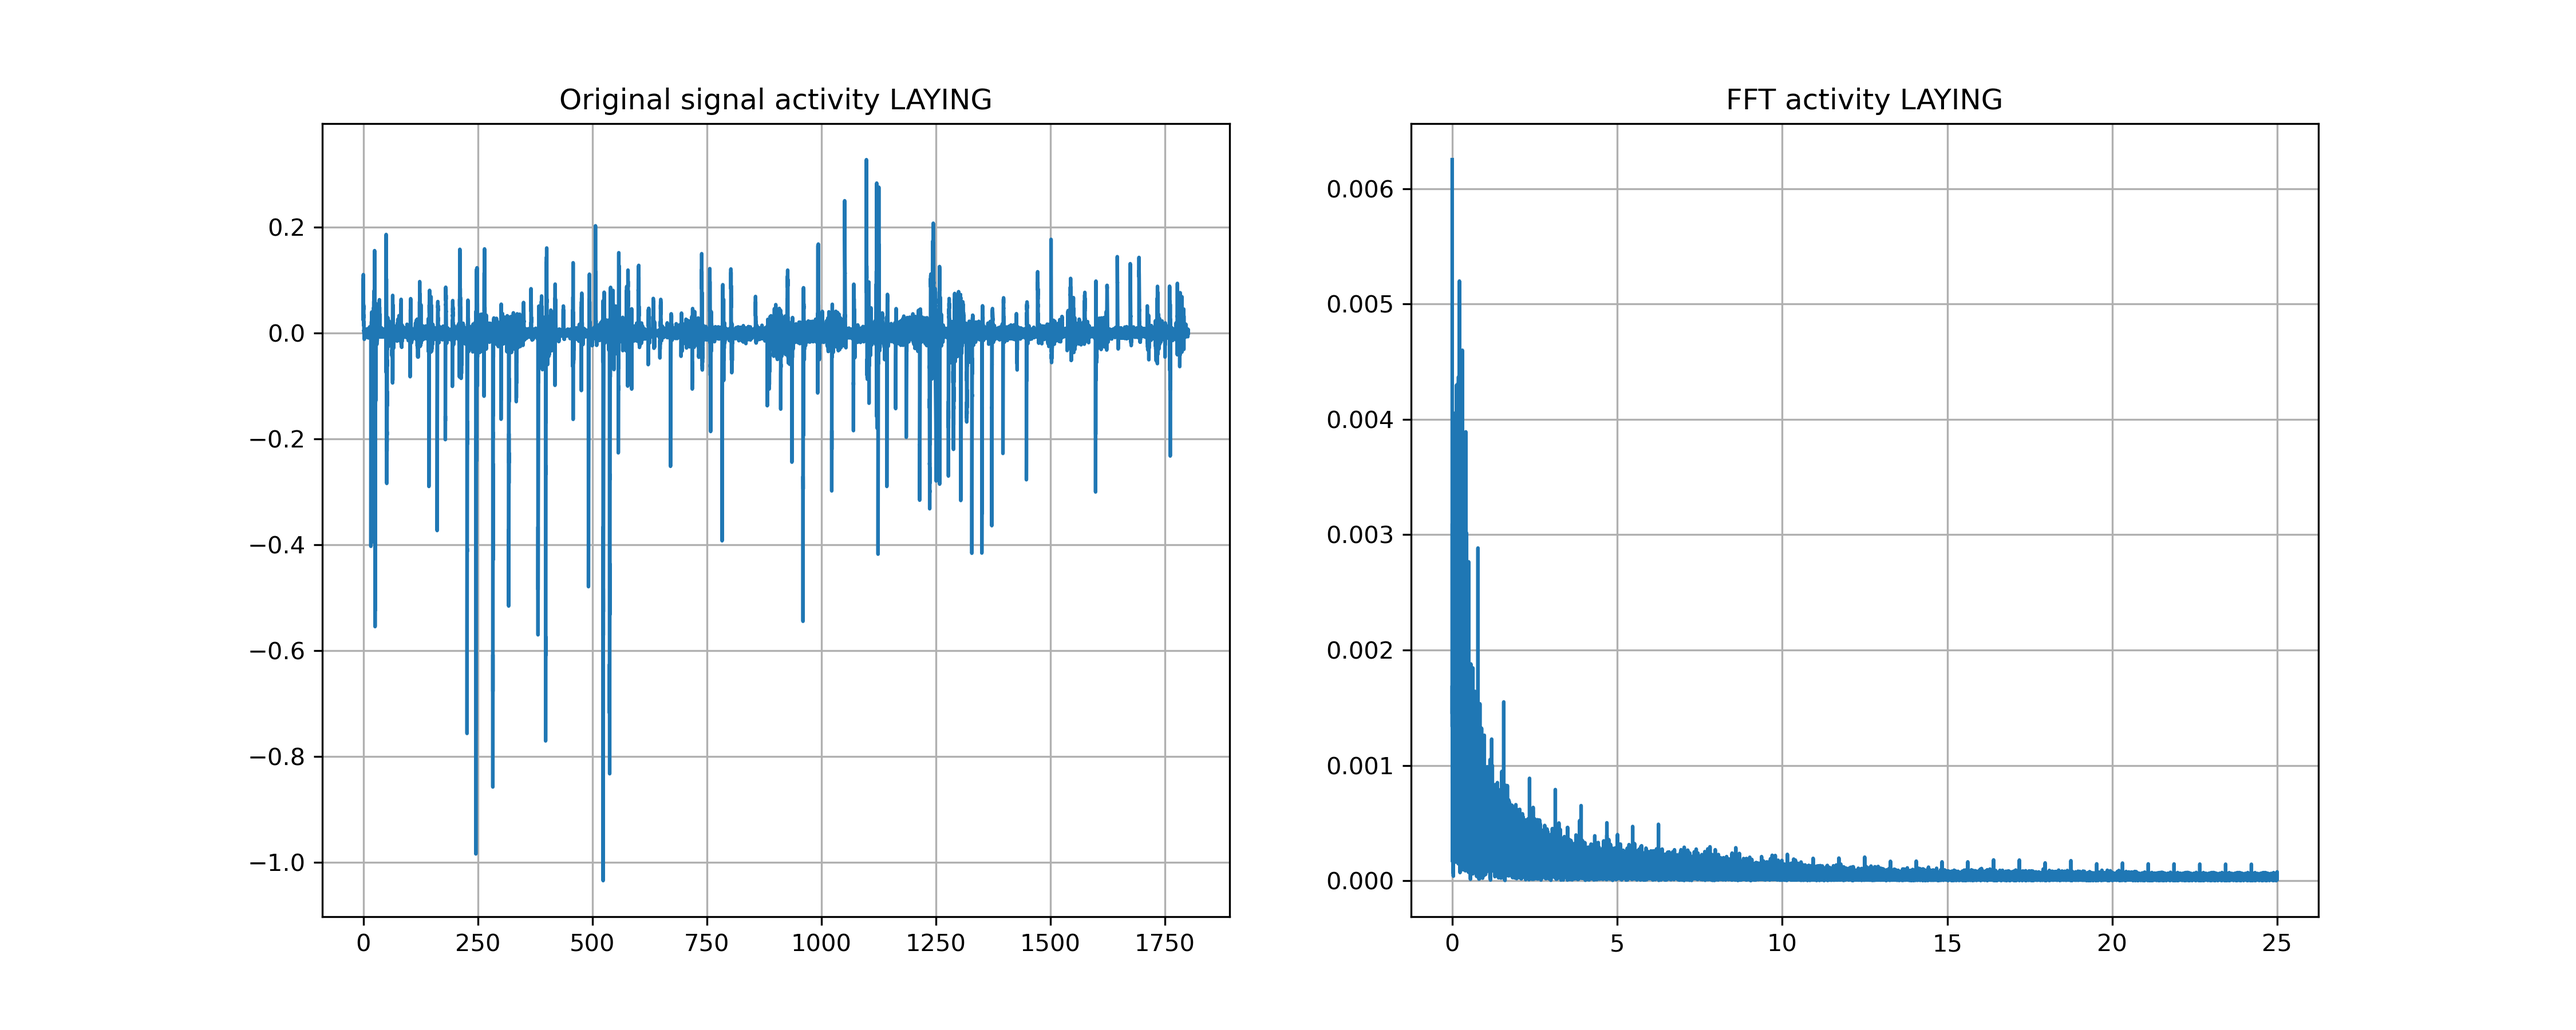
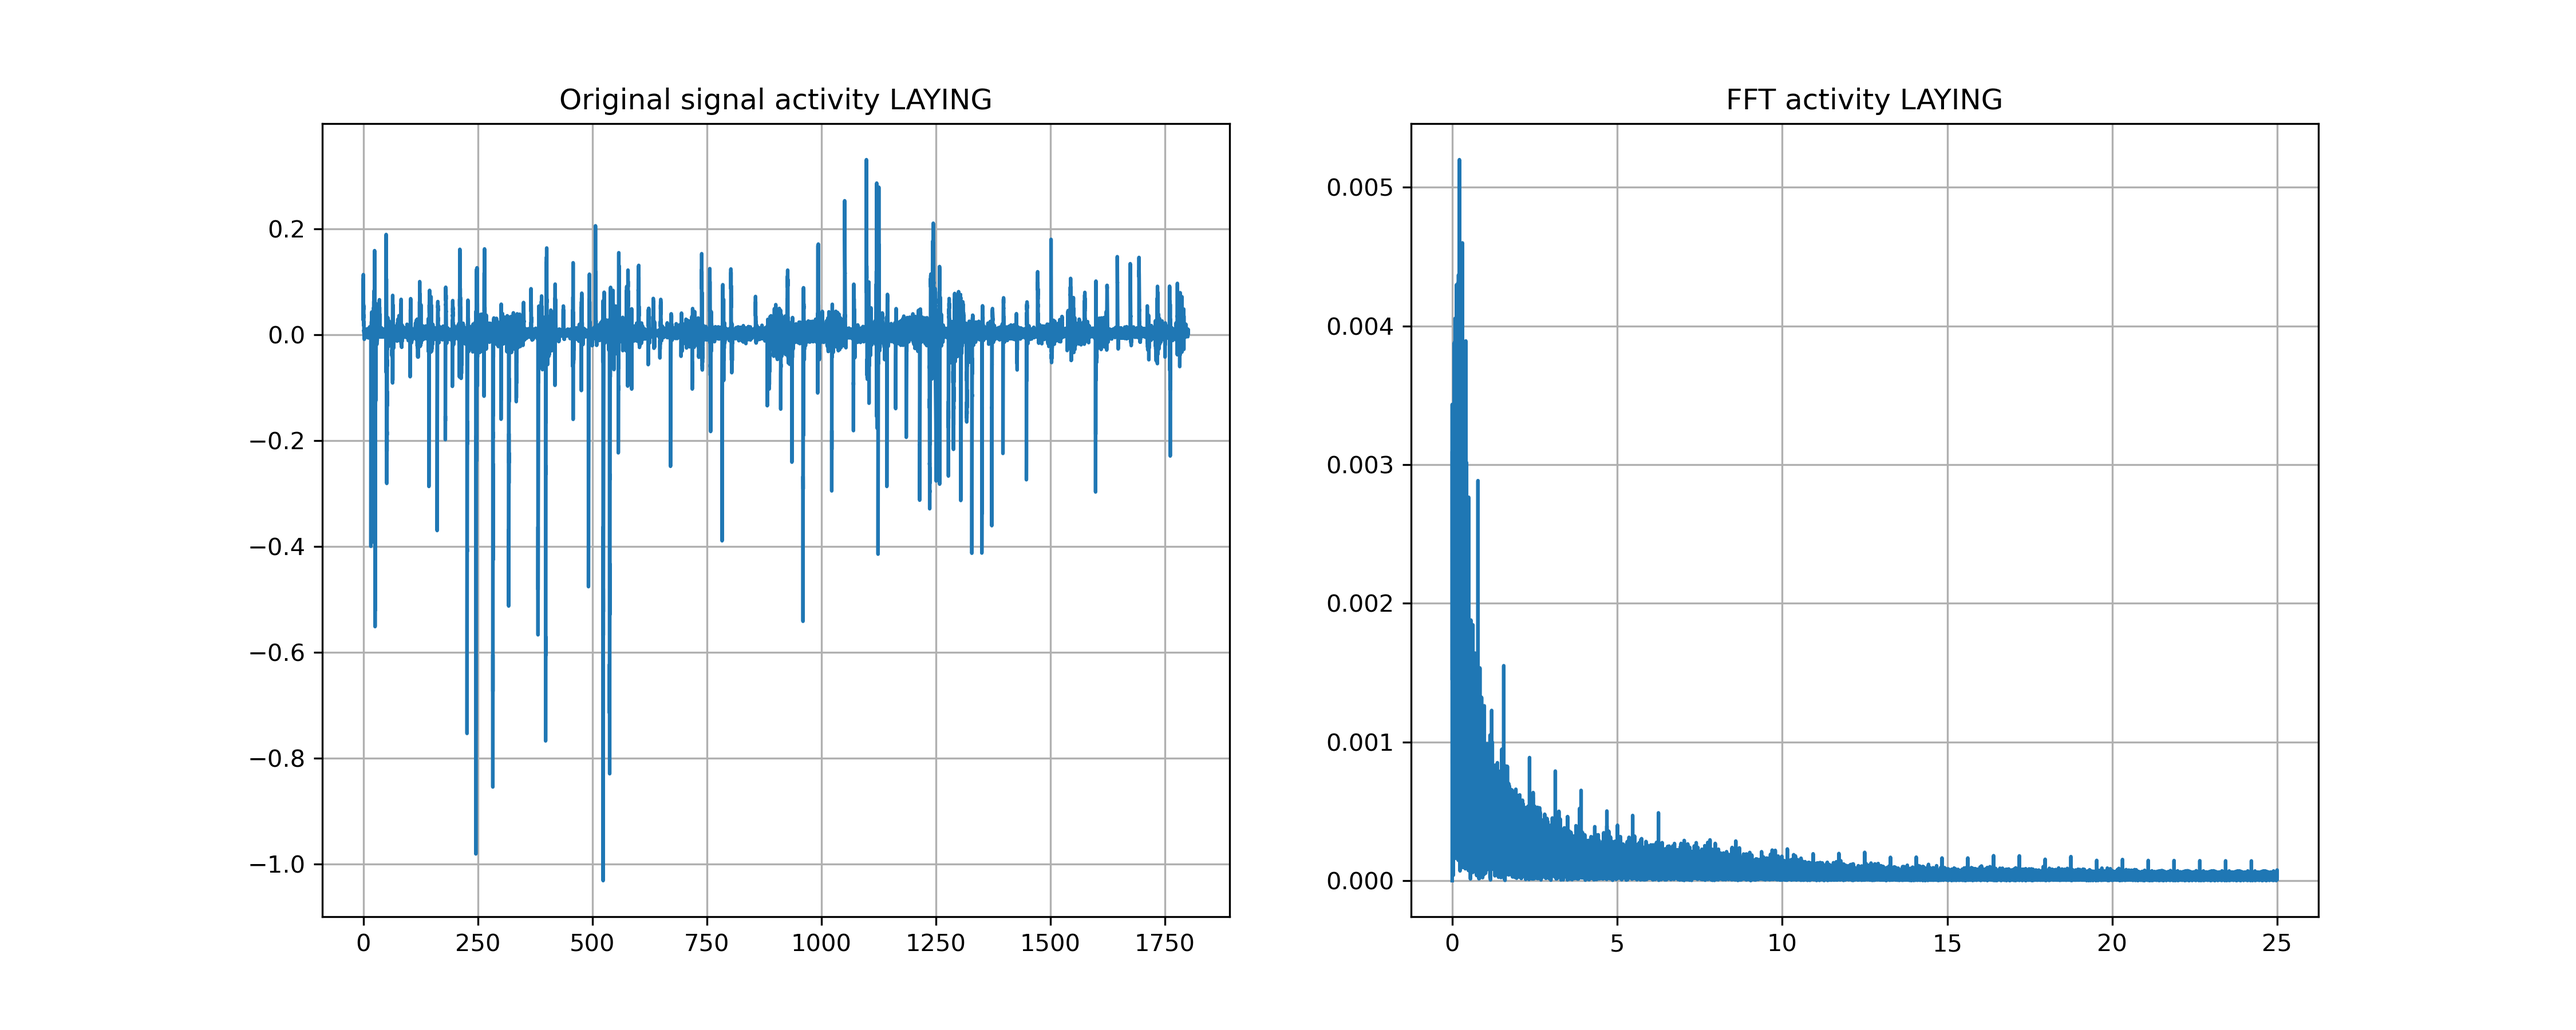
added offset to fft calculation

diff --git a/TS/4_456.py b/TS/4_456.py
@@ -129,8 +129,8 @@ raw_signal = pd.DataFrame(raw_signal, columns=["signal", "label"])
 raw_signal["label"] = raw_signal["label"].transform(lambda c: activity_labels['activity'][c - 1])
 activities_and_signals = raw_signal.groupby("label")["signal"].apply(list).to_dict()
 
-## TODO: add offset
 for activity, signal in activities_and_signals.items():
+    signal = signal - np.mean(signal)
     t = np.linspace(start=0, stop=T * np.size(signal), num=np.size(signal)) # create time axis
     f, y = calculate_fft(signal, T) # fourier transform
     plt.figure(figsize=(15, 6))
